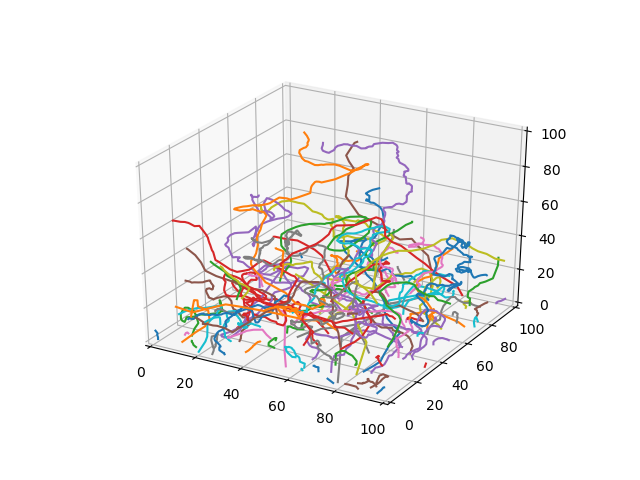
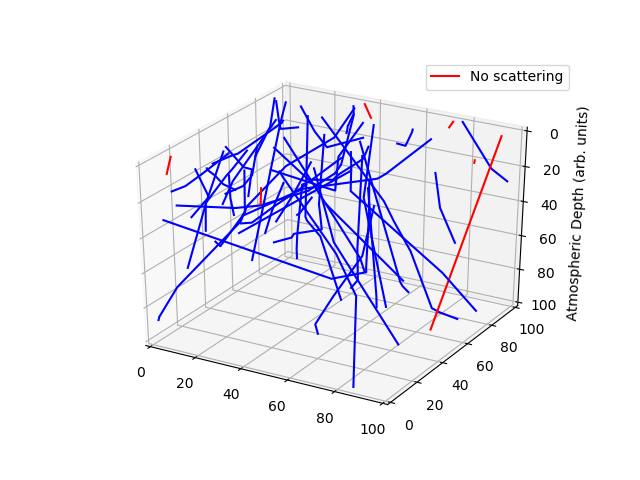
Implemented changes for calculating weights and intensity.

diff --git a/scatterer.py b/scatterer.py
@@ -8,20 +8,24 @@ start_time = time.time()
 # Possibly needs to become an inherited class to
 # allow for different phase functions. Need to think about this.
 class Molecule:
-    def __init__(self, name="no name", phase_g=0.5):
+    def __init__(self, name="no name", phase_SD=0.5):
         """A class to define molecules with different width phase functions
         
         Inputs
         name : str
             A name for the molecule, default 'no name'.
-        phase_g : float
+        phase_SD : float
             Standard deviation (radians) of the molecule's phase function.
         """
         self.name = name
-        self.phase_g = phase_g
+        self.phase_SD = phase_SD
 
-    def phase_func(self):
-        """Gaussian scattering phase function.
+    def phase_func(self, theta):
+        """Returns probability of scattering at angle theta."""
+        return 2*np.exp(-theta/2*self.phase_SD**2) # x2 because theta > 0
+
+    def inv_phase_func(self, rand_state=np.random):
+        """Draws random theta, phi from Gaussian scattering phase function.
         Returns
             theta : float
                 A random azimuthal angle theta > 0 from a normal 
@@ -30,8 +34,8 @@ class Molecule:
                 A random polar angle phi from a uniform
                 distribution in the range [0, 2*pi].
         """
-        theta = np.abs(np.random.normal(loc=0.0, scale=self.phase_g))
-        phi = np.random.uniform()*2*np.pi
+        theta = np.abs(rand_state.normal(loc=0.0, scale=self.phase_SD))
+        phi = rand_state.uniform()*2*np.pi
         return theta, phi
 
     def z_abund_func(self, z):
@@ -42,7 +46,7 @@ class Molecule:
         Returns
             A(z) : float
                 The relative abundance at height z. """
-        return 0.1 #np.exp(-z) 
+        return 5e-2 #np.exp(-z) 
 
 class Grid:
     def __init__(self, grid_size=(100,100,100), molecules=['arb']):
@@ -66,6 +70,8 @@ class Grid:
             for molecule in self.molecules:
                 self.abs_grid[:, :, i] += molecule.z_abund_func(z)
         self.abs_grid = self.abs_grid/len(self.molecules)
+        self.sca_grid = self.abs_grid
+        self.sum_grid = self.abs_grid + self.sca_grid
 
 class Scatter:
     def __init__(self, grid):
@@ -77,7 +83,7 @@ class Scatter:
         """
         self.grid = grid
 
-    def propagate(self, max_step=10000, rand_seed=None): #changed max step from 999 to 10000
+    def propagate(self, max_step=999, rand_seed=None, nu=None):
         """Propagate a photon through the grid.
         
         Inputs
@@ -85,22 +91,28 @@ class Scatter:
                 Maximum number of path steps to make before giving up.
             rand_seed : int
                 Seed to generate reproducible random numbers.
-                Used for initial position and tau value.
+                Used for initial position and propagation vector.
+            nu : float
+                Wavenumber of photon to propagate.
                 
         """
-        #Lara: should we add beta_sca param to the arguments for this funciton? for now we will take a homogeneous approach and use 
-        # beta_sca_i = 0.01 for each molecule type i. then beta_sca for a cell is the sum of these over the number of types, lets assume 
-        # ten types of molecule and the same in every cell. then beta_sca = 0.1
-        beta_sca = 0.1
         self._max_step   = max_step
         self._rand       = np.random.RandomState(rand_seed)
+        self.weights     = [[],[]]
         
+        # Random initial x, y position (z=0) and propagation vector
         rand = self._rand.uniform(size=(2,2))
         self.pos_vec     = np.full((max_step+1, 3), np.nan)
         self.pos_vec[0]  = np.append(rand[0], 0.) * self.grid.grid_size
-        self.prp_vec     = self._pol_to_cart(np.insert(rand[1]*np.array([.25, 2.])*np.pi,  0, 1.))
-        self.max_tau     = -np.log(1 - (self._rand.uniform())/beta_sca) # integrated path length. LARA: need to scale second term in log by 1/beta_sca, which is a function of the cell!! :)
-        self.sum_tau     = 0.
+        self.prp_vec     = self._pol_to_cart(
+            np.insert(rand[1]*np.array([.25, 2.])*np.pi,  0, 1.))
+        
+        ## Wilf: you had -np.log(1 - rho/beta_scat) but I'm not sure this makes
+        ##       sense. That function is only defined for beta_scat>rho, so generates
+        ##       infinite path lengths in many cases.
+        # Initialise random optical depth integrated path length for first step
+        self.max_abs     = -np.log(1 - self._rand.uniform()) 
+        self.sum_abs     = 0.
         
         self.left_grid = False
         for n_step in range(max_step):
@@ -121,23 +133,27 @@ class Scatter:
                     # shortest positive intercept distance is exit point
                     if 0. < test_len < stop_len:
                         stop_len = test_len
-            #beta_sca   = self.grid.abs_grid[tuple(self._cell)]
-            self.sum_tau += stop_len*beta_sca
-            # check whether max_tau is reached along this path
-            if self.sum_tau >= self.max_tau:
-                stop_len = (self.sum_tau - self.max_tau)/beta_sca
-                self.sum_tau = self.max_tau
+            beta_abs   = self.grid.abs_grid[tuple(self._cell)]
+            self.sum_abs += stop_len*beta_abs
+            # check whether max_abs is reached along this path
+            if self.sum_abs >= self.max_abs:
+                stop_len = (self.sum_abs - self.max_abs)/beta_abs
+                self.sum_abs = self.max_abs
             self.pos_vec[n_step + 1] = self.pos_vec[n_step] + stop_len*self.prp_vec
-            if self.sum_tau is self.max_tau:
-
-            
-
-                self._scatter()
-        #Lara: want to store an aborption weight after each scatter order. 
-        # this is the proability that this path has been traversed by a photon before absorption.
-        self.w_abs_order = np.exp(-stop_len*beta_sca) #stop_len or test_len ?? Want this length to be length of path traversed only in this order - NOT from zero.
-        self.w_abs += self.w_abs_order # we want to work out w_abs_order for each scattering order and then add this to the running propagation
-        # (only for absoprtion not scattering weight).
+            if self.sum_abs is self.max_abs:
+                theta = self._scatter()
+                self._detect(theta, self.pos_vec[n_step+1])
+                # New random optical depth and zero integrated path length
+                self.max_abs = -np.log(1 - self._rand.uniform())
+                self.sum_abs = 0.
+        ## Wilf: Currently we get values of I_p > 1, is this right?
+        ##       Maybe there needs to be some form of normalisation somewhere,
+        ##       e.g dividing by the number of scattering orders or total path length?
+        # Sum of weight products over scatter orders
+        if len(self.weights[0]) == 0 and len(self.weights[1]) ==0:
+            self.intens_p = "no weights" # means photon left grid before scattered
+        else:
+            self.intens_p = np.dot(self.weights[0], self.weights[1])
     
     def _pol_to_cart(self, pol_vec):
         """Convert vector from polar (r, theta phi) to Cartesian (x, y, z)"""
@@ -156,11 +172,30 @@ class Scatter:
         elif cart_vec[0] < 0:
             phi = phi + np.pi
         return np.array([r, theta, phi])
-        
+
+    def _detect(self, theta, pos_vec):
+        """Calculate weights for scattering and absorption paths at current scatter order.
+        Inputs
+            theta : float
+                Phase function angle 0 <= theta <= pi.
+            pos_vec : float, array-like
+                Position vector of scattering event.
+        """
+        # Sum of absorption and scattering along path to detector
+        detect_path  = ((self._cell[2] + 1) - pos_vec[2]) \
+            * self.grid.sum_grid[tuple(self._cell)] \
+            + np.sum(self.grid.sum_grid[self._cell[0], 
+                                        self._cell[1], 
+                                        self._cell[2]+1:])
+        ## Wilf: which molecule's phase function do we use below?
+        P = self.grid.molecules[0].phase_func(theta) # phase function probability
+        self.weights[1].append(np.exp(-detect_path)*P) # scattering weight
+        self.weights[0].append(np.exp(-self.sum_abs)) # absorption weight
+
     def _scatter(self):
-        """Scatter the photon from a molecule following some phase function"""
-        rand_mol  = np.random.randint(0, high=len(self.grid.molecules))
-        theta_, phi_ = self.grid.molecules[rand_mol].phase_func()
+        """Scatter the photon from a molecule following some phase function."""
+        rand_mol  = self._rand.randint(0, high=len(self.grid.molecules))
+        theta_, phi_ = self.grid.molecules[rand_mol].inv_phase_func(rand_state=self._rand)
         new_prp_ = self._pol_to_cart(np.array([1., theta_, phi_]))
         r, theta, phi = self._cart_to_pol(self.prp_vec)
         Ry = np.array([[np.cos(theta), 0., np.sin(theta)],
@@ -171,25 +206,7 @@ class Scatter:
                        [0., 0., 1.]])
         new_prp = np.dot(Rz, np.dot(Ry, new_prp_))
         self.prp_vec = new_prp
-        self.sum_tau = 0.
-        
-        ## This is the probability of no scatter+absorption along the path traversed from this 
-        ## point up until the detector.
-        P = phase_func(theta_, phi_)
-        theta_d = 0 ## this is the angle of the incoming radiation beam to the detector. since we're assuming up-down/left-right propagation, for now set to 0.
-        z_length =    # cartesian distance from this scatter order to the detector along z-axis.
-        beta_sca_to_det =  f(z_length) #sum of beta_sca_j for molecules j in cells travered to det. Assume homog. let beta_sca_j=0.01 then z_length determines no. of cells.
-        beta_abs_to_det =  g(z_length) #sum of beta_abs_j for molecules j in cells travered to det. Assume homog. let beta_abs_j=0.01 (?) then z_length determines no. of cells.
-
-        w_sca = P*np.exp(-z_length*(beta_abs_to_det + beta_sca_to_det))/np.cos(theta_d) 
-
-        # finally to work out intensity contribution for one photon, at each scattering order we take product of weights
-        N_p = # number of photons so argument of range in "for i in range"
-        I_photon = sum_over_orders{w_sca*w_abs}
-        I = (1/N_p)*sum_over_photons{I_photon} # gives intensity averaged over photons for one wavelength.
-
-
-        return self
+        return theta_
 
 # A dictionary of molecules
 moleculeDict = {
@@ -213,16 +230,25 @@ gridA = Grid(grid_size=(100,100,100))
 fig = plt.figure()
 ax = fig.gca(projection='3d')
 
-# Perform 100 scatter instances on the grid and plot. Lara: you mean 100 photons not scattering orders??
+# Invoke 100 instances of 'Scatter' on the grid and plot.
 scatters = []
-for i in range(1000):
+nl = 'No scattering'
+for i in range(50):
     scatters.append(Scatter(gridA))
     scatters[i].propagate()
+    p = scatters[i].intens_p
     points = scatters[i].pos_vec.T
-    ax.plot(points[0], points[1], points[2])
+    if p == "no weights":
+        ax.plot(points[0], points[1], points[2], c='red', label=nl)
+        nl = '_nolegend_'
+    else:
+        ax.plot(points[0], points[1], points[2], c='blue')
 ax.set_xlim(0, gridA.grid_size[0])
 ax.set_ylim(0, gridA.grid_size[1])
 ax.set_zlim(0, gridA.grid_size[2])
+ax.set_zlabel('Atmospheric Depth (arb. units)')
+ax.invert_zaxis()
+plt.legend()
 plt.savefig('traces2.png')
 print("--- %s seconds ---" % (time.time() - start_time))
 plt.show()
